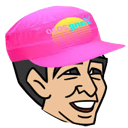
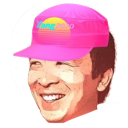
just adding latest cchanges

diff --git a/yangify/popup.html b/yangify/popup.html
@@ -14,6 +14,8 @@
   <link rel="stylesheet" href="CSS/section2.css" />
   <link rel="stylesheet" href="CSS/section3.css" />
 
+  <link rel="shortcut icon" href="newlogo1.png" type="image/x-icon"/>
+
   <script src="popup.js" charset="utf-8"></script>
 
   <title>Yangify - Chrome Extension</title>
@@ -28,7 +30,6 @@
     <img class="mainLogo" src="newlogo1.png"></img>
 
     <div class="mid">
-
     <label class="rocker rocker-small">
       <input type="checkbox" checked>
       <span class="switch-left">On</span>
@@ -36,7 +37,11 @@
     </label>
     </div>
 
-    <p class="mainTitleDes">v1.0 ©Carmont Connection</p>
+    <div class="c3">
+    <p class="mainTitleDes">v1.0. By Carmont Connection</p>
+    </div>
+
+
   </div>
   <div id="section2" class="section2">
     <div class="yangScorecardTitle">
@@ -46,27 +51,27 @@
 
     <div id="progressBar" class="progressBar">
       <progress id="progress-bar-yangness" max="100" value="0" class="html5 bar shadow zigZag"></progress>
-      <img class="progressBarImg" id="progessBarImg" src="progressFaces/bernieSadders.png" />
+      <img class="progressBarImg" id="progessBarImg" src="progressFaces/mathless.png" />
+
+      <div id="belowProgessBar" class="belowProgressBarText">
+        <div id="yangPercentage" class="yangPercentage">0%</div>
+        <div id="yangCaption" class="yangCaption">Mathless</div>
+        <!-- <div id="yangDes" class="yangDes">This page has 0 yangs</div> -->
+
+            <div id="yangCount" class="yangDes">0 Mentions of 'Andrew Yang'</div>
+      </div>
 
     </div>
-
-    <div id="belowProgessBar" class="belowProgressBarText">
-      <div id="yangPercentage" class="yangPercentage">0%</div>
-      <div id="yangCaption" class="yangCaption">Bernie Sadders</div>
-      <!-- <div id="yangDes" class="yangDes">This page has 0 yangs</div> -->
-      <div id="yangCount" class="yangDes">This page has 0 yangs</div>
-    </div>
-    <p class="yangMeterDes"></p>
 
     <div id="settingsList" class="settingsList">
 
-      <div class="settingsListInd">Report a bug<i class="fas fa-bug settingslistIcons"></i></div>
+      <a class="settingsList_a" href="https://www.carmontconnection.com/contact" target="_blank"><div class="settingsListInd">Report a bug<i class="fas fa-bug settingslistIcons"></i></div></a>
       <hr class="settingslistMiddleHrs" />
-      <div class="settingsListInd">Request a feature<i class="fas fa-satellite settingslistIcons"></i></div>
+      <a class="settingsList_a" href="https://www.carmontconnection.com/contact" target="_blank"><div class="settingsListInd">Request a feature<i class="fas fa-satellite settingslistIcons"></i></div></a>
       <hr class="settingslistMiddleHrs" />
-      <div class="settingsListInd">Rate us<i class="fas fa-star-half-alt settingslistIcons"></i></div>
+      <a class="settingsList_a" href="https://www.carmontconnection.com/contact" target="_blank"><div class="settingsListInd">Rate us<i class="fas fa-star-half-alt settingslistIcons"></i></div></a>
       <hr class="settingslistMiddleHrs" />
-      <div class="settingsListInd">Uninstall Extension<i class="fas fa-ban settingslistIcons"></i></div>
+      <a class="settingsList_a" href="https://www.carmontconnection.com/contact" target="_blank"><div class="settingsListInd">Contact Us<i class="fas fa-paper-plane settingslistIcons"></i></div></a>
 
     </div>
 
@@ -168,8 +173,11 @@
 
     <div class="bottomButtons">
 
-      <button class="bottomButton watchTutorialButton">WATCH A TUTORIAL</button>
-      <button class="bottomButton DonateButton">DONATE</button>
+      <a target="_blank" href="https://www.youtube.com/channel/UC8n1bMFsJSicOoDtpS3p0VA"><button class="bottomButton watchTutorialButton">WATCH A TUTORIAL</button></a>
+      <a target="_blank" href="https://www.paypal.com/cgi-bin/webscr?cmd=_s-xclick&hosted_button_id=FHD2GJGTHAKU4&source=url"><button class="bottomButton DonateButton">DONATE</button></a>
+
+
+
       <i class="fa fa-cogs settingsIconStyle" id="settingsIcon"></i>
 
     </div>

diff --git a/yangify/popup.js b/yangify/popup.js
@@ -84,12 +84,13 @@ function toggleSettings() {
 }
 
 const yangnessCountArray = [
-  [0 /*yang count*/, 'Bernie Sadders' /* level acheived*/, 0 /* % of progressbar*/, 'progressFaces/bernieSadders.png'],
   [2, 'Mathless', 25, 'progressFaces/mathless.png'],
   [4, 'Ying and Yang', 50, 'progressFaces/yinyang.png'],
   [6, 'Freedom Dividend', 75, 'progressFaces/freedomDividend.png'],
   [12, 'Yang Gangster', 100, 'progressFaces/yangster.png']
 ];
+
+/* [0 /*yang count*/ /* , 'Bernie Sadders' /* level acheived*/ /* , 0 /* % of progressbar*/ /* , 'progressFaces/bernieSadders.png'], */
 
 function yangnessDecider(count) {
 
@@ -189,14 +190,12 @@ document.addEventListener('DOMContentLoaded', function () {
 
         if (percent === 0) {
           num1 = 0;
-        } else if (percent === 25) {
-          num1 = 1;
         } else if (percent === 50) {
-          num1 = 2;
+          num1 = 1;
         } else if (percent === 75) {
-          num1 = 3;
+          num1 = 2;
         } else if (percent === 100) {
-          num1 = 4;
+          num1 = 3;
         }
 
         document.getElementById('progessBarImg').src = yangnessCountArray[num1][3];

diff --git a/yangify/CSS/section1.css b/yangify/CSS/section1.css
@@ -10,17 +10,18 @@
 .mainLogo {
   width:133px;
   /* height:60px; */
-  margin-top:15px;
-  margin-left:18px;
+  margin-top:13px;
+  margin-left:68px; /*18px*/
   position:absolute;
 }
 
 .mainTitleDes {
   color:#e1e1e1;
   clear:both;
-  display:relative;
   margin-top:60px;
-  margin-left:19px;
+  margin-left:68px; /*9px*/
+  text-align:center;
+  align-items:center;
   font-size:0.8em;
   z-index:10;
   /* font-family: 'Red Hat Display', sans-serif;
@@ -191,7 +192,7 @@ border-radius: 0px 0px 70% 0px;
   justify-content: center; */
   position:absolute;
   right:0px;
-  top:-10px;
+  top:-7px;
 }
 
 
@@ -219,7 +220,7 @@ border-radius: 0px 0px 70% 0px;
 }
 
 .rocker-small {
-  font-size: 0.75em; /* Sizes the switch */
+  font-size: 0.67em; /* Sizes the switch */
   margin: 1em;
 }
 
@@ -227,7 +228,7 @@ border-radius: 0px 0px 70% 0px;
   content: "";
   position: absolute;
   top: 2em;
-  left: 0.6em;
+  left: 0.7em;
   right: 0.6em;
   bottom: 0;
   background-color: #999;

diff --git a/yangify/CSS/section2.css b/yangify/CSS/section2.css
@@ -13,7 +13,7 @@
   background-color: #fff;
   display: flex;
   flex-direction: column;
-  height: 285px;
+  height: 258px;
   border-radius: 0px 0px 70% 0px;
   margin-top: 0px;
   position: relative;
@@ -31,6 +31,8 @@
   margin-left: auto;
   margin-right: auto;
   text-align: center;
+  margin-bottom:7px;
+  margin-top:-7px;
 }
 
 .yangPercentage {
@@ -51,6 +53,9 @@
   /* font-weight:600; */
   font-size: 1.07em;
   margin-top: 3px;
+  text-align:center;
+  margin-bottom:2px;
+
 }
 
 .yangMeterMentions {
@@ -82,7 +87,11 @@
   width: 72%;
   margin-left: auto;
   margin-right: auto;
-  margin-top: -19px;
+  margin-top: -1px;
+}
+
+.settingsList_a {
+  text-decoration:none;
 }
 
 .settingsListInd {

diff --git a/yangify/popup.css b/yangify/popup.css
@@ -1,7 +1,7 @@
 @import url('https://fonts.googleapis.com/css?family=Red+Hat+Display&display=swap');
 
 body {
-  min-height: 405px;
+  min-height: 403px;
   min-width:285px;
   margin:0;
   cursor: url(yang_gang_48_cur.cur), default;
